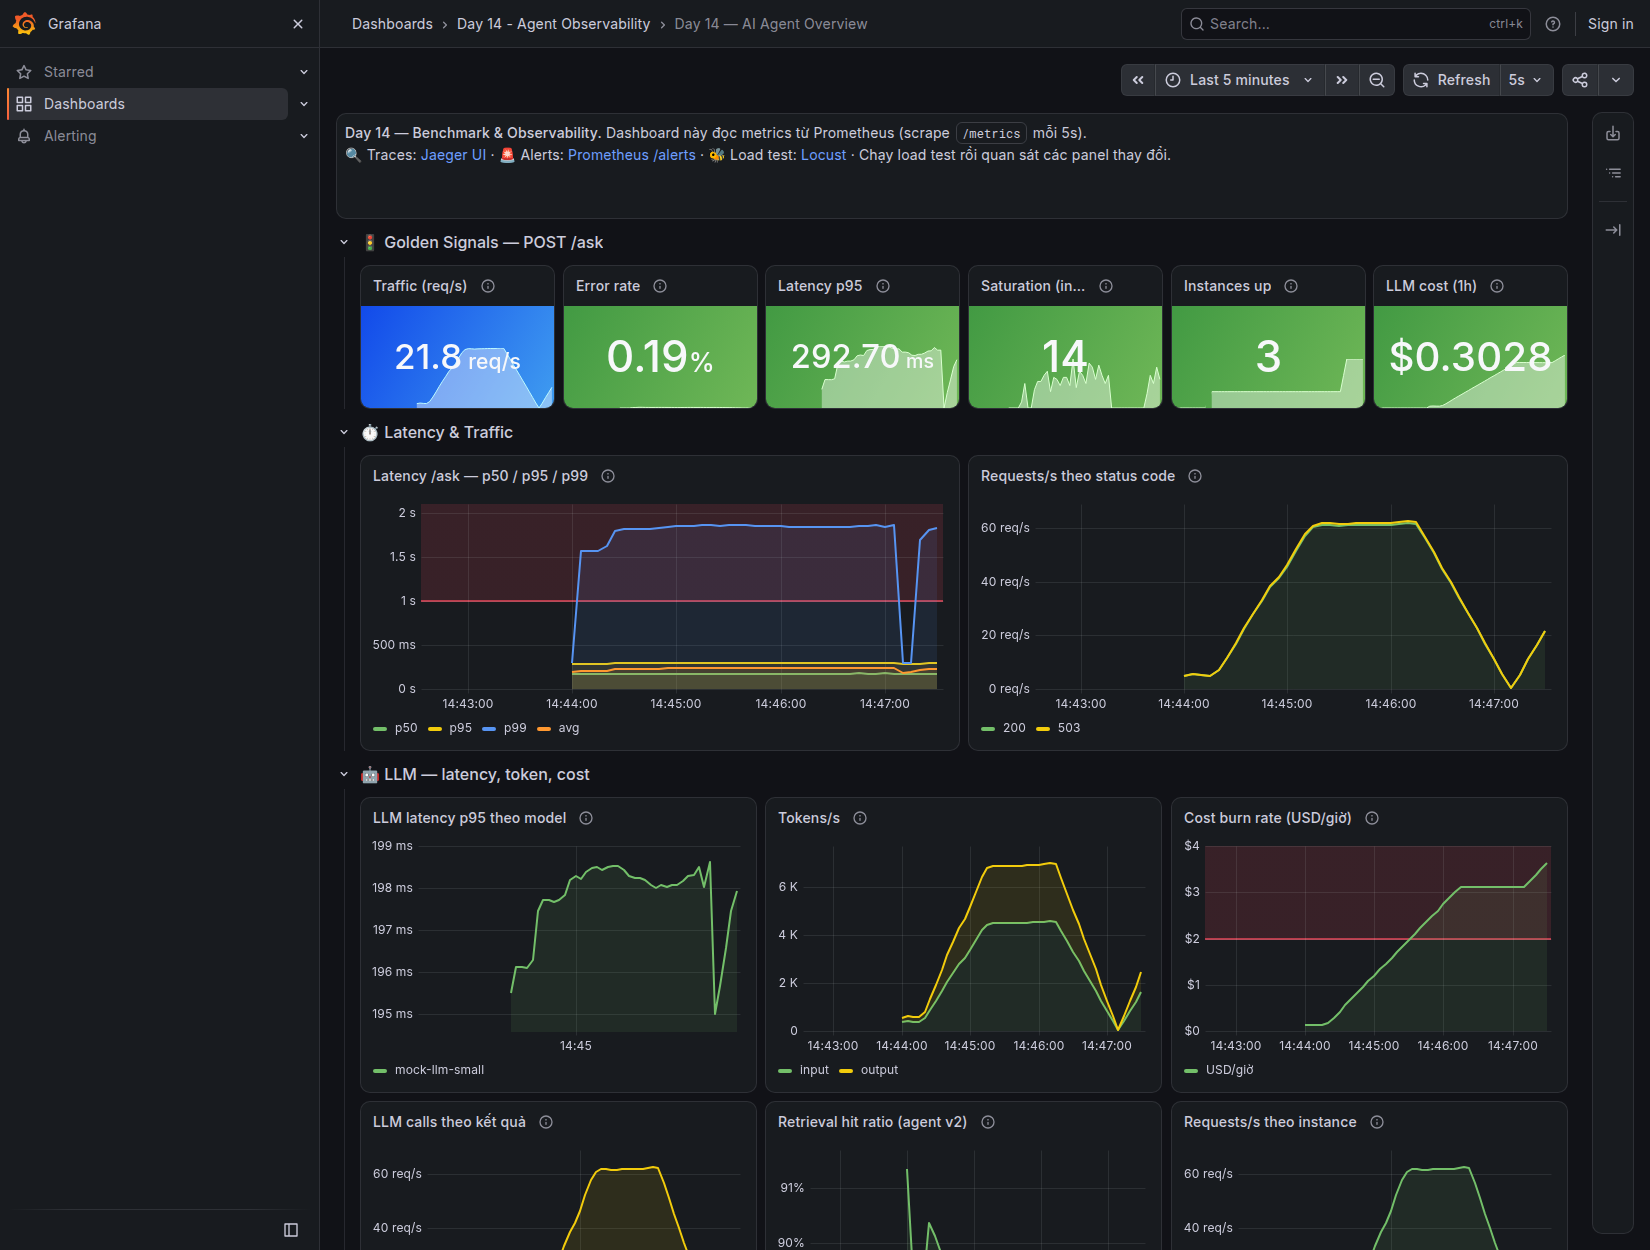
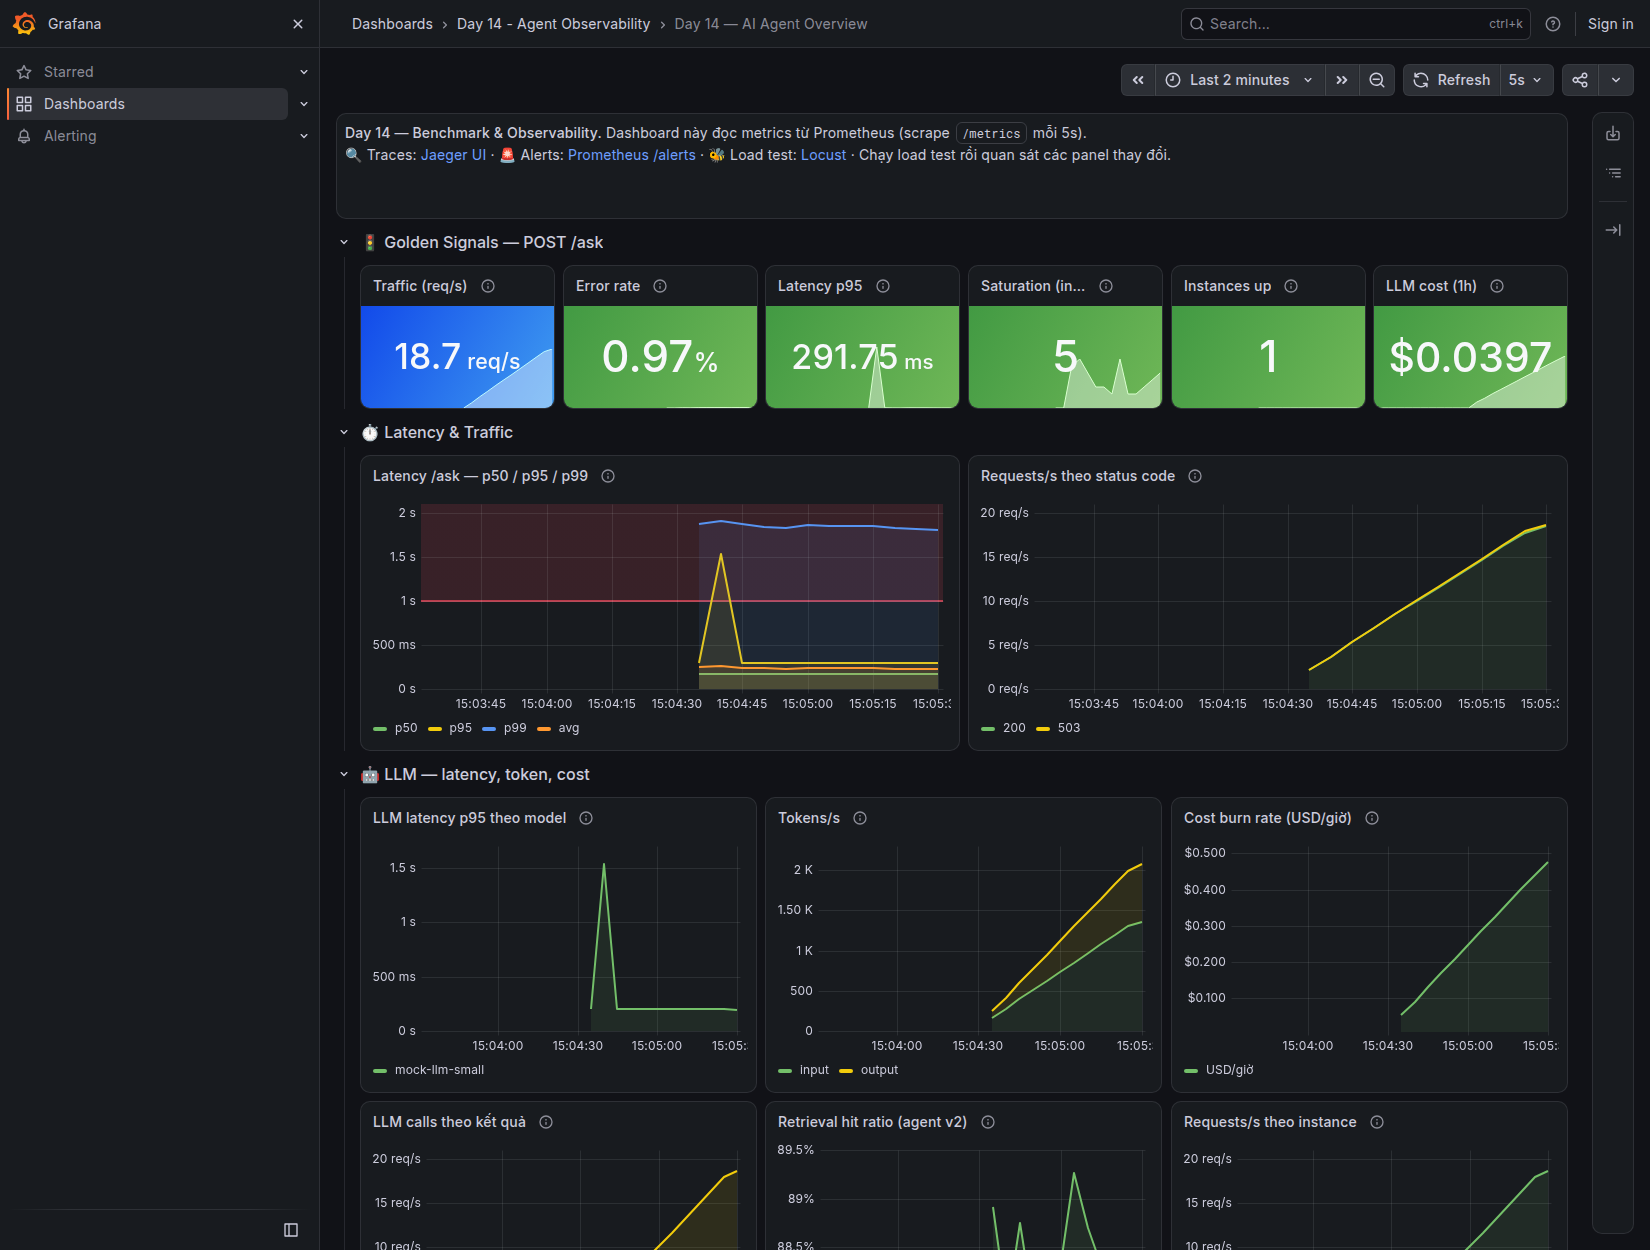
Close Day 14 checkpoint evidence gaps

diff --git a/MISSION_ANSWERS.md b/MISSION_ANSWERS.md
@@ -25,6 +25,8 @@
 | Vòng đời | Chạy với reload | FastAPI lifespan | Có điểm để khởi tạo và dọn tài nguyên |
 | Health | Thiếu endpoint riêng | `/health`, `/ready` | Điều phối restart và traffic theo tín hiệu phù hợp |
 
+Ví dụ cụ thể về cấu hình secret: bản develop gán trực tiếp `OPENAI_API_KEY` trong [app.py, dòng 17](01-localhost-vs-production/develop/app.py#L17). Bản production đọc biến môi trường cùng tên trong [config.py, dòng 27](01-localhost-vs-production/production/config.py#L27).
+
 ## Part 2 — Docker
 
 ### 2.1. Dockerfile cơ bản
@@ -50,6 +52,12 @@ Client -> Nginx -> FastAPI agent
 ```
 
 Compose cấp DNS theo tên service. Nginx chuyển tiếp sang `agent:8000`. Agent nhận URL Redis và Qdrant qua env. `GET /health` qua Nginx trả `200`, `POST /ask` với JSON cũng trả `200` và nội dung mock về Docker. Bản basic dùng query parameter `question`; gửi JSON vào bản basic trả `422`.
+
+Chạy lại bản basic trong Docker và gửi `POST /ask?question=What%20is%20Docker%3F` nhận được HTTP `200` với response sau:
+
+```json
+{"answer":"Container là cách đóng gói app để chạy ở mọi nơi. Build once, run anywhere!"}
+```
 
 ## Part 3 — Cloud Deployment
 
@@ -125,3 +133,4 @@ Total messages: 10
 
 - Yêu cầu AI đọc repo, tóm tắt và triển khai toàn bộ lab. AI hỗ trợ viết agent, cấu hình Docker/cloud, sửa hai mục knowledge base và thu kết quả từ các lệnh chạy trong workspace.
 - AI kiểm tra bằng script chấm đầy đủ với Docker, chạy curl, test stateless, eval và load test, rồi triển khai lên Render sau khi người dùng cấp phiên đăng nhập. Các kết quả trong báo cáo lấy từ lần chạy này. Trước khi nộp, người làm bài cần tự chạy lại và bổ sung vào mục này những phần đã tự sửa hoặc tự xác minh.
+- Yêu cầu AI rà toàn bộ tài liệu Markdown và bổ sung bằng chứng còn thiếu. AI đối chiếu JSON/CSV với báo cáo, chạy lại ví dụ Docker basic và thử quality gate khi hạ từ v2 xuống v1.
